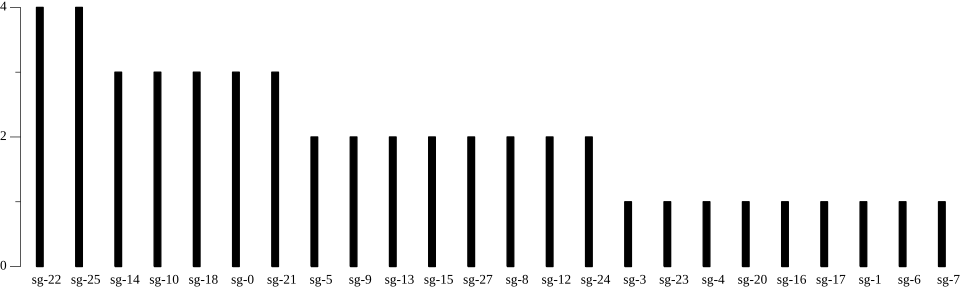
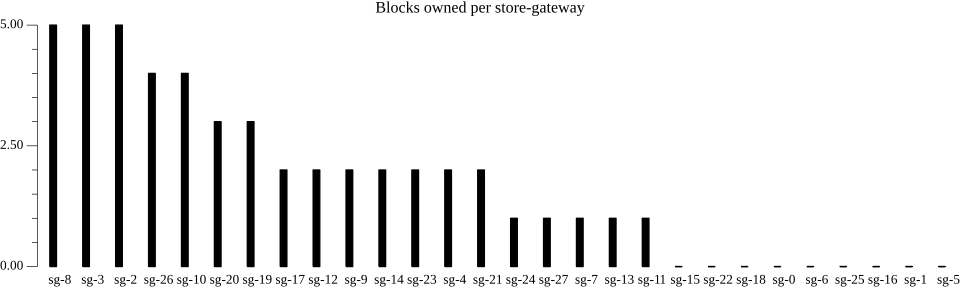
Improve the graphs

Changed region(s): [[0.0, 0.0312, 1.0, 1.0], [0.375, 0.0, 0.625, 0.0625], [0.0, 0.0, 0.0312, 0.0312]]

diff --git a/cmd/sg-loadbalancing-sim/main.go b/cmd/sg-loadbalancing-sim/main.go
@@ -42,22 +42,12 @@ func main() {
 		}
 	}
 
-	ownershipCount := map[string]int{}
-
-	for _, block := range blocksToQuery {
-		for _, o := range ownership[block.id.String()] {
-			if cnt, ok := ownershipCount[o]; ok {
-				ownershipCount[o] = cnt + 1
-			} else {
-				ownershipCount[o] = 1
-			}
-		}
-	}
+	ownershipCount := getBlocksOwnershipCount(sgs, blocksToQuery, ownership)
 
 	fmt.Printf("Queried store-gateways: %v\n", sgsQueried)
 	fmt.Printf("Blocks owned by store-gateways: %v\n", ownershipCount)
-	PlotGraph(sgsQueried, "queried.png")
-	PlotGraph(ownershipCount, "blocksOwned.png")
+	PlotGraph(sgsQueried, "queried.png", "Requests per store-gateway")
+	PlotGraph(ownershipCount, "blocksOwned.png", "Blocks owned per store-gateway")
 }
 
 type Pair struct {
@@ -152,7 +142,23 @@ func getBlocksForTimeRange(blocks []Block, start, end time.Time) (blocksToQuery 
 	return blocksToQuery
 }
 
-func PlotGraph(picked map[string]int, file string) {
+func getBlocksOwnershipCount(sgs []string, blocksToQuery []Block, ownership map[string][]string) map[string]int {
+	ownershipCount := map[string]int{}
+
+	for _, sg := range sgs {
+		ownershipCount[sg] = 0
+	}
+
+	for _, block := range blocksToQuery {
+		for _, o := range ownership[block.id.String()] {
+			ownershipCount[o] += 1
+		}
+	}
+
+	return ownershipCount
+}
+
+func PlotGraph(picked map[string]int, file string, title string) {
 	p := plot.New()
 	values := plotter.Values{}
 
@@ -181,6 +187,7 @@ func PlotGraph(picked map[string]int, file string) {
 		panic(err)
 	}
 	p.Add((bars))
+	p.Title.Text = title
 	p.NominalX(keys...)
 	if err := p.Save(10*vg.Inch, 3*vg.Inch, file); err != nil {
 		panic(err)
